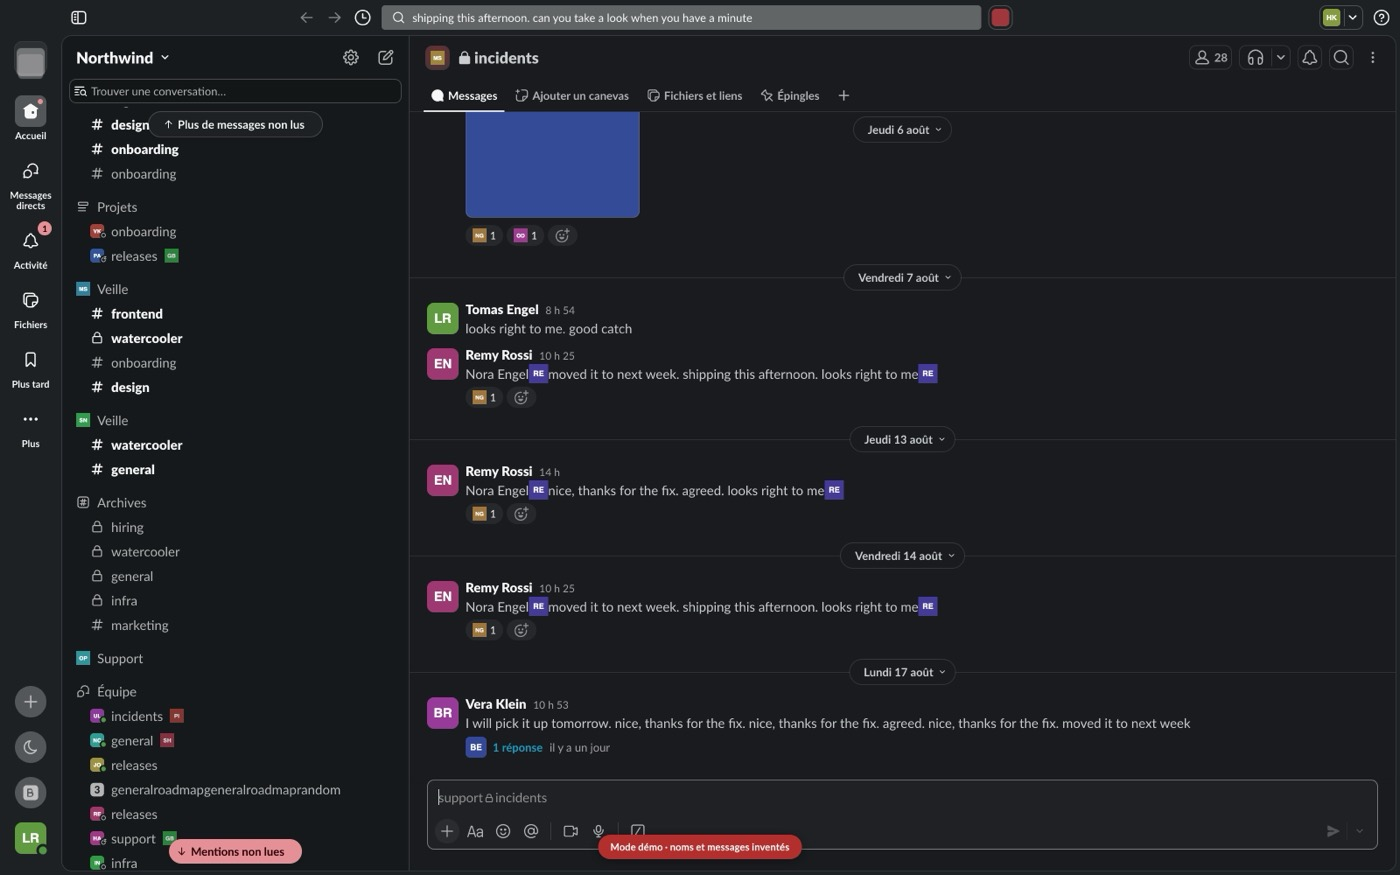
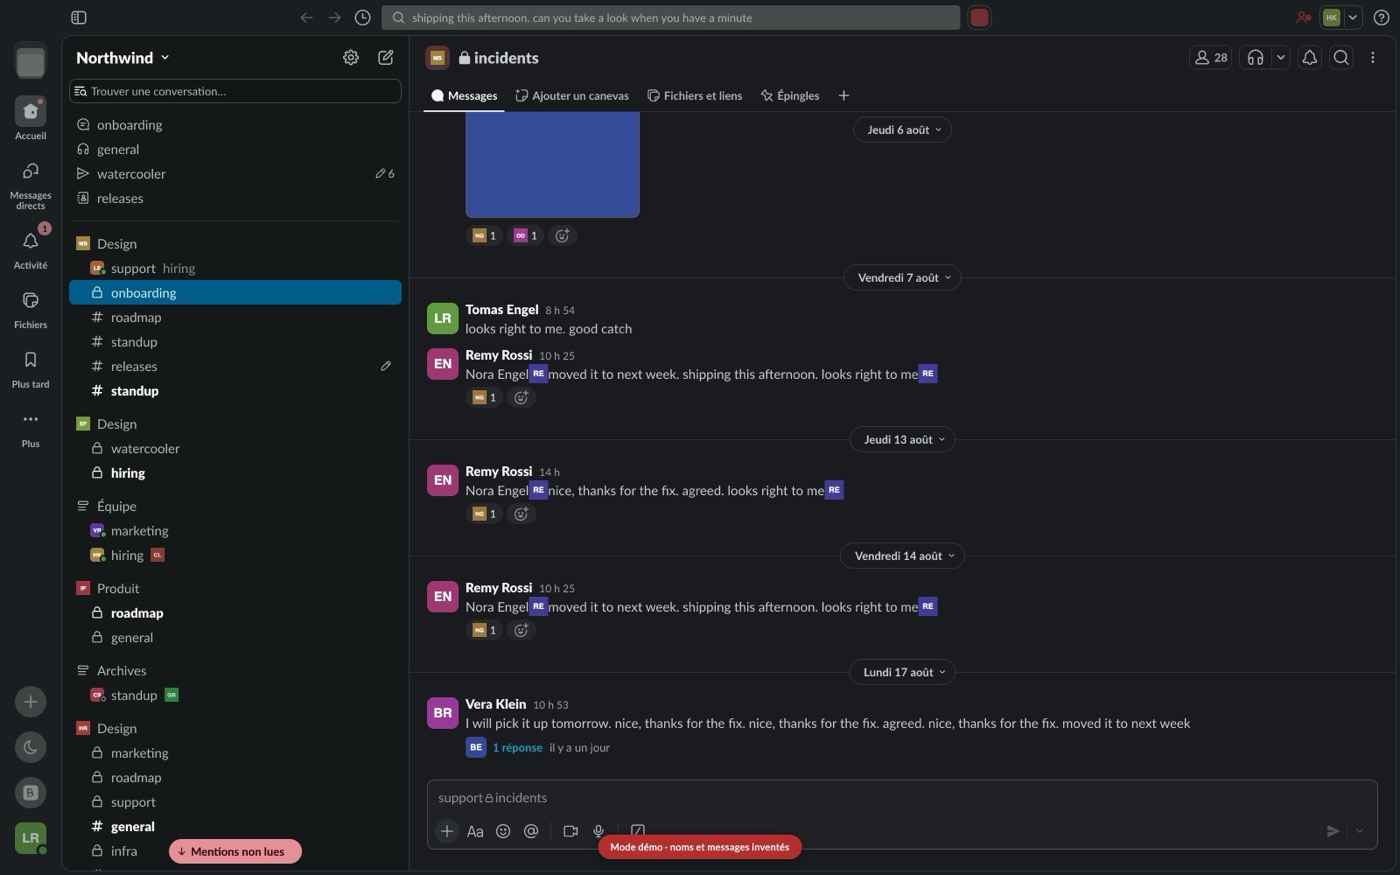
feat(demo-mode): a switch in the top bar, off until you press it
Installing the mod is not the request; pressing the switch is. It sits at the
right-hand end of the top bar beside Slack's own controls, and turns red while
the demo is running.

The state is deliberately not remembered. Every start is off: coming back to a
Slack full of invented names after a restart, and reading them as real, is the
one failure this mod could cause on its own.

`api.slack.addToolbarButton` gains `topNav` for it, which is where a switch
belonging to the whole client goes rather than to the conversation on screen.
Its container is matched as a direct child -- `display_flex` and
`align_items_center` are utility classes that appear all over Slack's markup,
and matching them anywhere under the right container would put the button in
whichever one came first.

The switch shows its state through a class on <html> and two groups inside the
mod's own SVG, so nothing here names the id the runtime gives the button. It
also survives the remounts Slack's re-renders cause, which setting the icon
from JavaScript would not.

diff --git a/mods/plugins/demo-mode/index.js b/mods/plugins/demo-mode/index.js
@@ -1,29 +1,56 @@
 /**
  * Demo Mode — a Slack full of people who do not exist.
  *
- * Switch it on and every name, face, message, channel, file and link on screen
- * is replaced by an invented one, so you can photograph or share your real
- * client without photographing or sharing your colleagues. Switch it off and
- * the real thing comes back.
+ * The mod installs a switch at the right-hand end of the top bar and does
+ * nothing else until you press it. Then every name, face, message, channel,
+ * file and link on screen is replaced by an invented one, so you can
+ * screenshot, screen-share or demo your real client without showing anybody's
+ * work. Press it again and the real thing comes back.
  *
  * The replacing is `redaction.js`, which is also what `pnpm shoot --mods` runs
  * before it photographs a real workspace: one implementation, so the pictures
  * in this repository and the ones you take yourself hide the same things.
  *
- * Two things a mod has to get right that a throwaway script did not:
+ * Three things a mod has to get right that a throwaway script did not:
  *
  * - **It has to be reversible.** The recipe was about to close Slack; this is
  *   switched off in a client somebody keeps using, so every write is recorded
  *   and put back -- and only where Slack has not re-rendered since.
  * - **It has to say it is on.** Forgetting which state you are in is the whole
- *   risk: a screenshot you think is anonymous, or a name you thought was
- *   invented. Hence the strip in the corner, for as long as the mod is on.
+ *   risk, in both directions: a screenshot you think is anonymous, or a name
+ *   you think is invented. Hence the strip across the bottom and the switch
+ *   turning red, neither of which follows the theme.
+ * - **It has to start off.** Installing the mod is not the request; pressing
+ *   the switch is. The state is deliberately not persisted either: coming back
+ *   to a Slack full of invented names after a restart, and reading them as
+ *   real, is the one failure this mod could cause on its own.
  */
 
 import { createRedaction } from './redaction.js';
 import { STRINGS } from './strings.js';
 
 const INDICATOR_ID = 'betterslack-demo-indicator';
+/** On `<html>`, so the switch's own appearance is pure CSS. */
+const ON_CLASS = 'betterslack-demo-on';
+
+/*
+ * Both states in one icon: a face, and the mask that goes over it.
+ *
+ * The classes are mine, inside my own markup, so the stylesheet below never
+ * has to name the id the runtime gives the button -- which is the runtime's
+ * business and not a contract.
+ */
+const ICON = `<svg viewBox="0 0 20 20" class="bs-demo-icon" aria-hidden="true">
+  <circle cx="7.5" cy="6.5" r="2.8" fill="none" stroke="currentColor" stroke-width="1.6"/>
+  <path d="M2.6 16a4.9 4.9 0 0 1 9.8 0" fill="none" stroke="currentColor" stroke-width="1.6" stroke-linecap="round"/>
+  <g class="bs-demo-off">
+    <path d="M13.5 4.5c2.6 1.2 2.6 9.8 0 11" fill="none" stroke="currentColor"
+          stroke-width="1.6" stroke-linecap="round" stroke-dasharray="2 2.6"/>
+  </g>
+  <g class="bs-demo-on">
+    <circle cx="15.4" cy="10" r="3.4" fill="currentColor"/>
+  </g>
+</svg>`;
 
 export default {
   /**
@@ -32,8 +59,15 @@ export default {
   start(api) {
     const t = api.i18n.strings(STRINGS);
     const redaction = createRedaction({ document });
+    const root = document.documentElement;
 
     api.css(`
+      /* The switch: one icon, two states, and neither of them subtle. */
+      .bs-demo-on { display: none; }
+      html.${ON_CLASS} .bs-demo-off { display: none; }
+      html.${ON_CLASS} .bs-demo-on { display: inline; }
+      html.${ON_CLASS} .bs-demo-icon { color: #b8362f; }
+
       #${INDICATOR_ID} {
         position: fixed; bottom: 18px; left: 50%; transform: translateX(-50%);
         z-index: 2147482000;
@@ -51,19 +85,40 @@ export default {
       }
     `);
 
-    const indicator = api.dom.h('div', { id: INDICATOR_ID, role: 'status' }, [t('indicator')]);
-    document.body.append(indicator);
+    let indicator = null;
+    let on = false;
 
-    redaction.start();
+    const setDemo = (wanted) => {
+      if (wanted === on) return;
+      on = wanted;
+      root.classList.toggle(ON_CLASS, on);
+
+      if (on) {
+        redaction.start();
+        indicator = api.dom.h('div', { id: INDICATOR_ID, role: 'status' }, [t('indicator')]);
+        document.body.append(indicator);
+        return;
+      }
+
+      redaction.stop();
+      redaction.restore();
+      indicator?.remove();
+      indicator = null;
+    };
+
+    api.slack.addToolbarButton('topNav', {
+      id: 'toggle',
+      label: t('toggle'),
+      description: t('toggleHint'),
+      icon: ICON,
+      onClick: () => setDemo(!on),
+    });
 
     api.commands.add({
-      id: 'sweep',
-      title: t('sweep'),
-      subtitle: t('sweepHint'),
-      run: () => {
-        redaction.sweep();
-        api.ui.toast(t('swept'));
-      },
+      id: 'toggle',
+      title: t('toggle'),
+      subtitle: t('toggleHint'),
+      run: () => setDemo(!on),
     });
 
     api.commands.add({
@@ -71,6 +126,10 @@ export default {
       title: t('check'),
       subtitle: t('checkHint'),
       run: () => {
+        if (!on) {
+          api.ui.toast(t('checkOff'), { variant: 'warning' });
+          return;
+        }
         /*
          * The safety property, handed to whoever is holding the shutter.
          *
@@ -88,11 +147,20 @@ export default {
       },
     });
 
-    api.onDispose(() => {
-      redaction.stop();
-      redaction.restore();
-      indicator.remove();
+    api.commands.add({
+      id: 'sweep',
+      title: t('sweep'),
+      subtitle: t('sweepHint'),
+      run: () => {
+        if (!on) return void api.ui.toast(t('checkOff'), { variant: 'warning' });
+        redaction.sweep();
+        api.ui.toast(t('swept'));
+      },
     });
+
+    // Switching the mod off is switching the demo off: the real thing comes
+    // back, whichever way you left it.
+    api.onDispose(() => setDemo(false));
   },
 
   stop() {},

diff --git a/site/data.js b/site/data.js
@@ -269,11 +269,11 @@ window.CATALOGUE = {
     {
       "id": "demo-mode",
       "name": "Demo Mode",
-      "description": "Fills your real Slack with people who do not exist: every name, face, message, channel, file and link on screen is replaced by an invented one, so you can screenshot, screen-share or demo your own client without showing anybody's work. Switch it off and the real thing comes back.",
+      "description": "Puts a switch in the top bar that fills your real Slack with people who do not exist: every name, face, message, channel, file and link on screen is replaced by an invented one, so you can screenshot, screen-share or demo your own client without showing anybody's work. Press it again and the real thing comes back. It starts off, and stays off until you ask.",
       "descriptions": {
-        "fr": "Remplit votre vrai Slack de gens qui n'existent pas : chaque nom, visage, message, canal, fichier et lien à l'écran est remplacé par un inventé, pour que vous puissiez capturer, partager votre écran ou faire une démo sans montrer le travail de personne. Éteignez-le et le vrai revient."
+        "fr": "Ajoute un interrupteur dans la barre du haut qui remplit votre vrai Slack de gens qui n'existent pas : chaque nom, visage, message, canal, fichier et lien à l'écran est remplacé par un inventé, pour que vous puissiez capturer, partager votre écran ou faire une démo sans montrer le travail de personne. Une seconde pression et le vrai revient. Il démarre éteint, et le reste tant que vous ne demandez rien."
       },
-      "version": "1.0.0",
+      "version": "1.1.0",
       "tags": [
         "privacy",
         "screenshots",

diff --git a/mods/plugins/demo-mode/strings.js b/mods/plugins/demo-mode/strings.js
@@ -4,9 +4,12 @@
 
 export const STRINGS = {
   en: {
+    toggle: 'Demo mode',
+    toggleHint: 'Replace every name, face and message on screen',
     indicator: 'Demo mode · names and messages are invented',
     check: 'Check the screen',
     checkHint: 'List anything real still showing',
+    checkOff: 'Demo mode is off — everything on screen is real.',
     checkClean: 'Nothing real is left on screen.',
     checkFound: '{count} still on screen — the log says where.',
     sweep: 'Sweep again',
@@ -14,9 +17,12 @@ export const STRINGS = {
     swept: 'Swept again.',
   },
   fr: {
+    toggle: 'Mode démo',
+    toggleHint: 'Remplacer chaque nom, visage et message à l’écran',
     indicator: 'Mode démo · noms et messages inventés',
     check: 'Vérifier l’écran',
     checkHint: 'Lister ce qui est encore réel à l’écran',
+    checkOff: 'Le mode démo est éteint — tout ce qui est à l’écran est réel.',
     checkClean: 'Il ne reste rien de réel à l’écran.',
     checkFound: '{count} encore à l’écran — le journal dit où.',
     sweep: 'Balayer à nouveau',

diff --git a/src/runtime/slack-api.ts b/src/runtime/slack-api.ts
@@ -59,6 +59,22 @@ const TOOLBARS = {
     before: undefined,
     placement: 'top' as Placement,
   },
+  /**
+   * Right-hand end of the top bar, beside Slack's own help and account
+   * controls. The place for a switch that belongs to the whole client rather
+   * than to the conversation on screen.
+   *
+   * The container is a direct child on purpose: `display_flex` and
+   * `align_items_center` are utility classes that appear all over Slack's
+   * markup, and matching them anywhere under the right container would put the
+   * button in whichever one happened to come first.
+   */
+  topNav: {
+    container: '.p-ia4_top_nav__right_container > .display_flex.align_items_center',
+    buttonClass: 'c-button-unstyled c-icon_button c-icon_button--size_medium c-icon_button--default',
+    before: undefined,
+    placement: 'bottom' as Placement,
+  },
   /** Right-hand side of the channel header: huddle, search, more. */
   channelHeader: {
     container: '.p-view_header__actions',

diff --git a/mods/plugins/demo-mode/README.fr.md b/mods/plugins/demo-mode/README.fr.md
@@ -1,11 +1,13 @@
 # Demo Mode
 
-Remplit votre vrai Slack de gens qui n'existent pas : chaque nom, visage, message, canal, fichier et lien à l'écran est remplacé par un inventé, pour que vous puissiez capturer, partager votre écran ou faire une démo sans montrer le travail de personne. Éteignez-le et le vrai revient.
+Ajoute un interrupteur dans la barre du haut qui remplit votre vrai Slack de gens qui n'existent pas : chaque nom, visage, message, canal, fichier et lien à l'écran est remplacé par un inventé, pour que vous puissiez capturer, partager votre écran ou faire une démo sans montrer le travail de personne. Une seconde pression et le vrai revient. Il démarre éteint, et le reste tant que vous ne demandez rien.
 
+- **L'interrupteur est à l'extrémité droite de la barre du haut**, à côté des contrôles de Slack, et il devient rouge tant que la démo tourne. Installer le mod n'est pas la demande ; appuyer sur l'interrupteur, oui.
+- **L'état n'est volontairement pas mémorisé.** Chaque démarrage est éteint. Revenir sur un Slack plein de noms inventés après un redémarrage, et les lire comme vrais, est la seule panne que ce mod pourrait provoquer à lui seul.
 - Il **remplace** au lieu de flouter. Un nom flouté reste un nom qui était à l'écran, et un rectangle noir annonce que l'image avait quelque chose à cacher ; la substitution donne un écran qui ressemble à Slack en usage et ne contient personne.
 - Chaque remplacement dérive d'un hash de l'original : la même personne est le même personnage inventé dans la barre latérale, dans les messages et dans la liste des membres — et deux passages donnent le même écran.
-- **Un bandeau rouge reste affiché en permanence.** Oublier dans quel état on est, c'est le vrai risque : une capture qu'on croit anonyme, ou un nom qu'on croyait inventé.
-- Éteindre le mod remet tout en place, et seulement là où Slack n'a pas redessiné depuis — réécrire un ancien message par-dessus un plus récent serait une autre forme d'erreur.
+- **Un bandeau rouge reste affiché en bas en permanence.** Oublier dans quel état on est, c'est le vrai risque : une capture qu'on croit anonyme, ou un nom qu'on croyait inventé.
+- L'éteindre remet tout en place, et seulement là où Slack n'a pas redessiné depuis — réécrire un ancien message par-dessus un plus récent serait une autre forme d'erreur.
 - « Vérifier l'écran », depuis la palette de commandes, liste ce qui est encore réel. C'est une règle absolue plutôt qu'une mémoire : après un balayage, rien de dessiné ne doit pointer ailleurs que vers example.com.
 - La zone de saisie est balayée une fois, au démarrage, puis laissée tranquille. La réécrire à chaque frappe rendrait le client inutilisable ; ce que vous tapez pendant une démo, ce sont vos propres mots, sur votre propre écran.
 - Les blocs de code deviennent du code, pas de la prose : une capture d'un coloriseur syntaxique montre donc toujours de la syntaxe.

diff --git a/mods/plugins/demo-mode/README.md b/mods/plugins/demo-mode/README.md
@@ -1,11 +1,13 @@
 # Demo Mode
 
-Fills your real Slack with people who do not exist: every name, face, message, channel, file and link on screen is replaced by an invented one, so you can screenshot, screen-share or demo your own client without showing anybody's work. Switch it off and the real thing comes back.
+Puts a switch in the top bar that fills your real Slack with people who do not exist: every name, face, message, channel, file and link on screen is replaced by an invented one, so you can screenshot, screen-share or demo your own client without showing anybody's work. Press it again and the real thing comes back. It starts off, and stays off until you ask.
 
+- **The switch is at the right-hand end of the top bar**, beside Slack's own controls, and it turns red while the demo is running. Installing the mod is not the request; pressing the switch is.
+- **The state is deliberately not remembered.** Every start is off. Coming back to a Slack full of invented names after a restart, and reading them as real, is the one failure this mod could cause on its own.
 - It **replaces** rather than blurs. A blurred name is still a name that was on the screen, and a black box says the picture had something to hide; substitution gives a screen that looks like Slack in use and contains nobody.
 - Every replacement is derived from a hash of the original, so the same person is the same invented person in the sidebar, in the messages and in the member list — and two runs produce the same screen.
-- **A red strip stays on screen the whole time.** Forgetting which state you are in is the actual risk: a screenshot you thought was anonymous, or a name you thought was invented.
-- Switching the mod off puts everything back, and only where Slack has not re-rendered since — writing a stale message back over a newer one would be its own kind of wrong.
+- **A red strip stays across the bottom the whole time.** Forgetting which state you are in is the actual risk: a screenshot you thought was anonymous, or a name you thought was invented.
+- Switching it off puts everything back, and only where Slack has not re-rendered since — writing a stale message back over a newer one would be its own kind of wrong.
 - "Check the screen", from the command palette, lists anything real still showing. It is an absolute rule rather than a memory: after a sweep, nothing drawn may point anywhere but at example.com.
 - The composer is swept once, when demo mode starts, and then left alone. Rewriting it on every keystroke would make the client unusable; what you type during a demo is your own words, on your own screen.
 - Code blocks become code, not prose, so a screenshot of a syntax highlighter still shows syntax.

diff --git a/docs/api.md b/docs/api.md
@@ -206,7 +206,9 @@ their neighbours in size, colour, hover and transition.
 ### `addToolbarButton(toolbar, button)`
 
 `toolbar` is `'controlStrip'` (beside your avatar), `'composer'` (the formatting
-row) or `'channelHeader'`.
+row), `'channelHeader'`, or `'topNav'` — the right-hand end of the top bar,
+which is where a switch belonging to the whole client goes rather than to the
+conversation on screen.
 
 ```js
 api.slack.addToolbarButton('controlStrip', {
